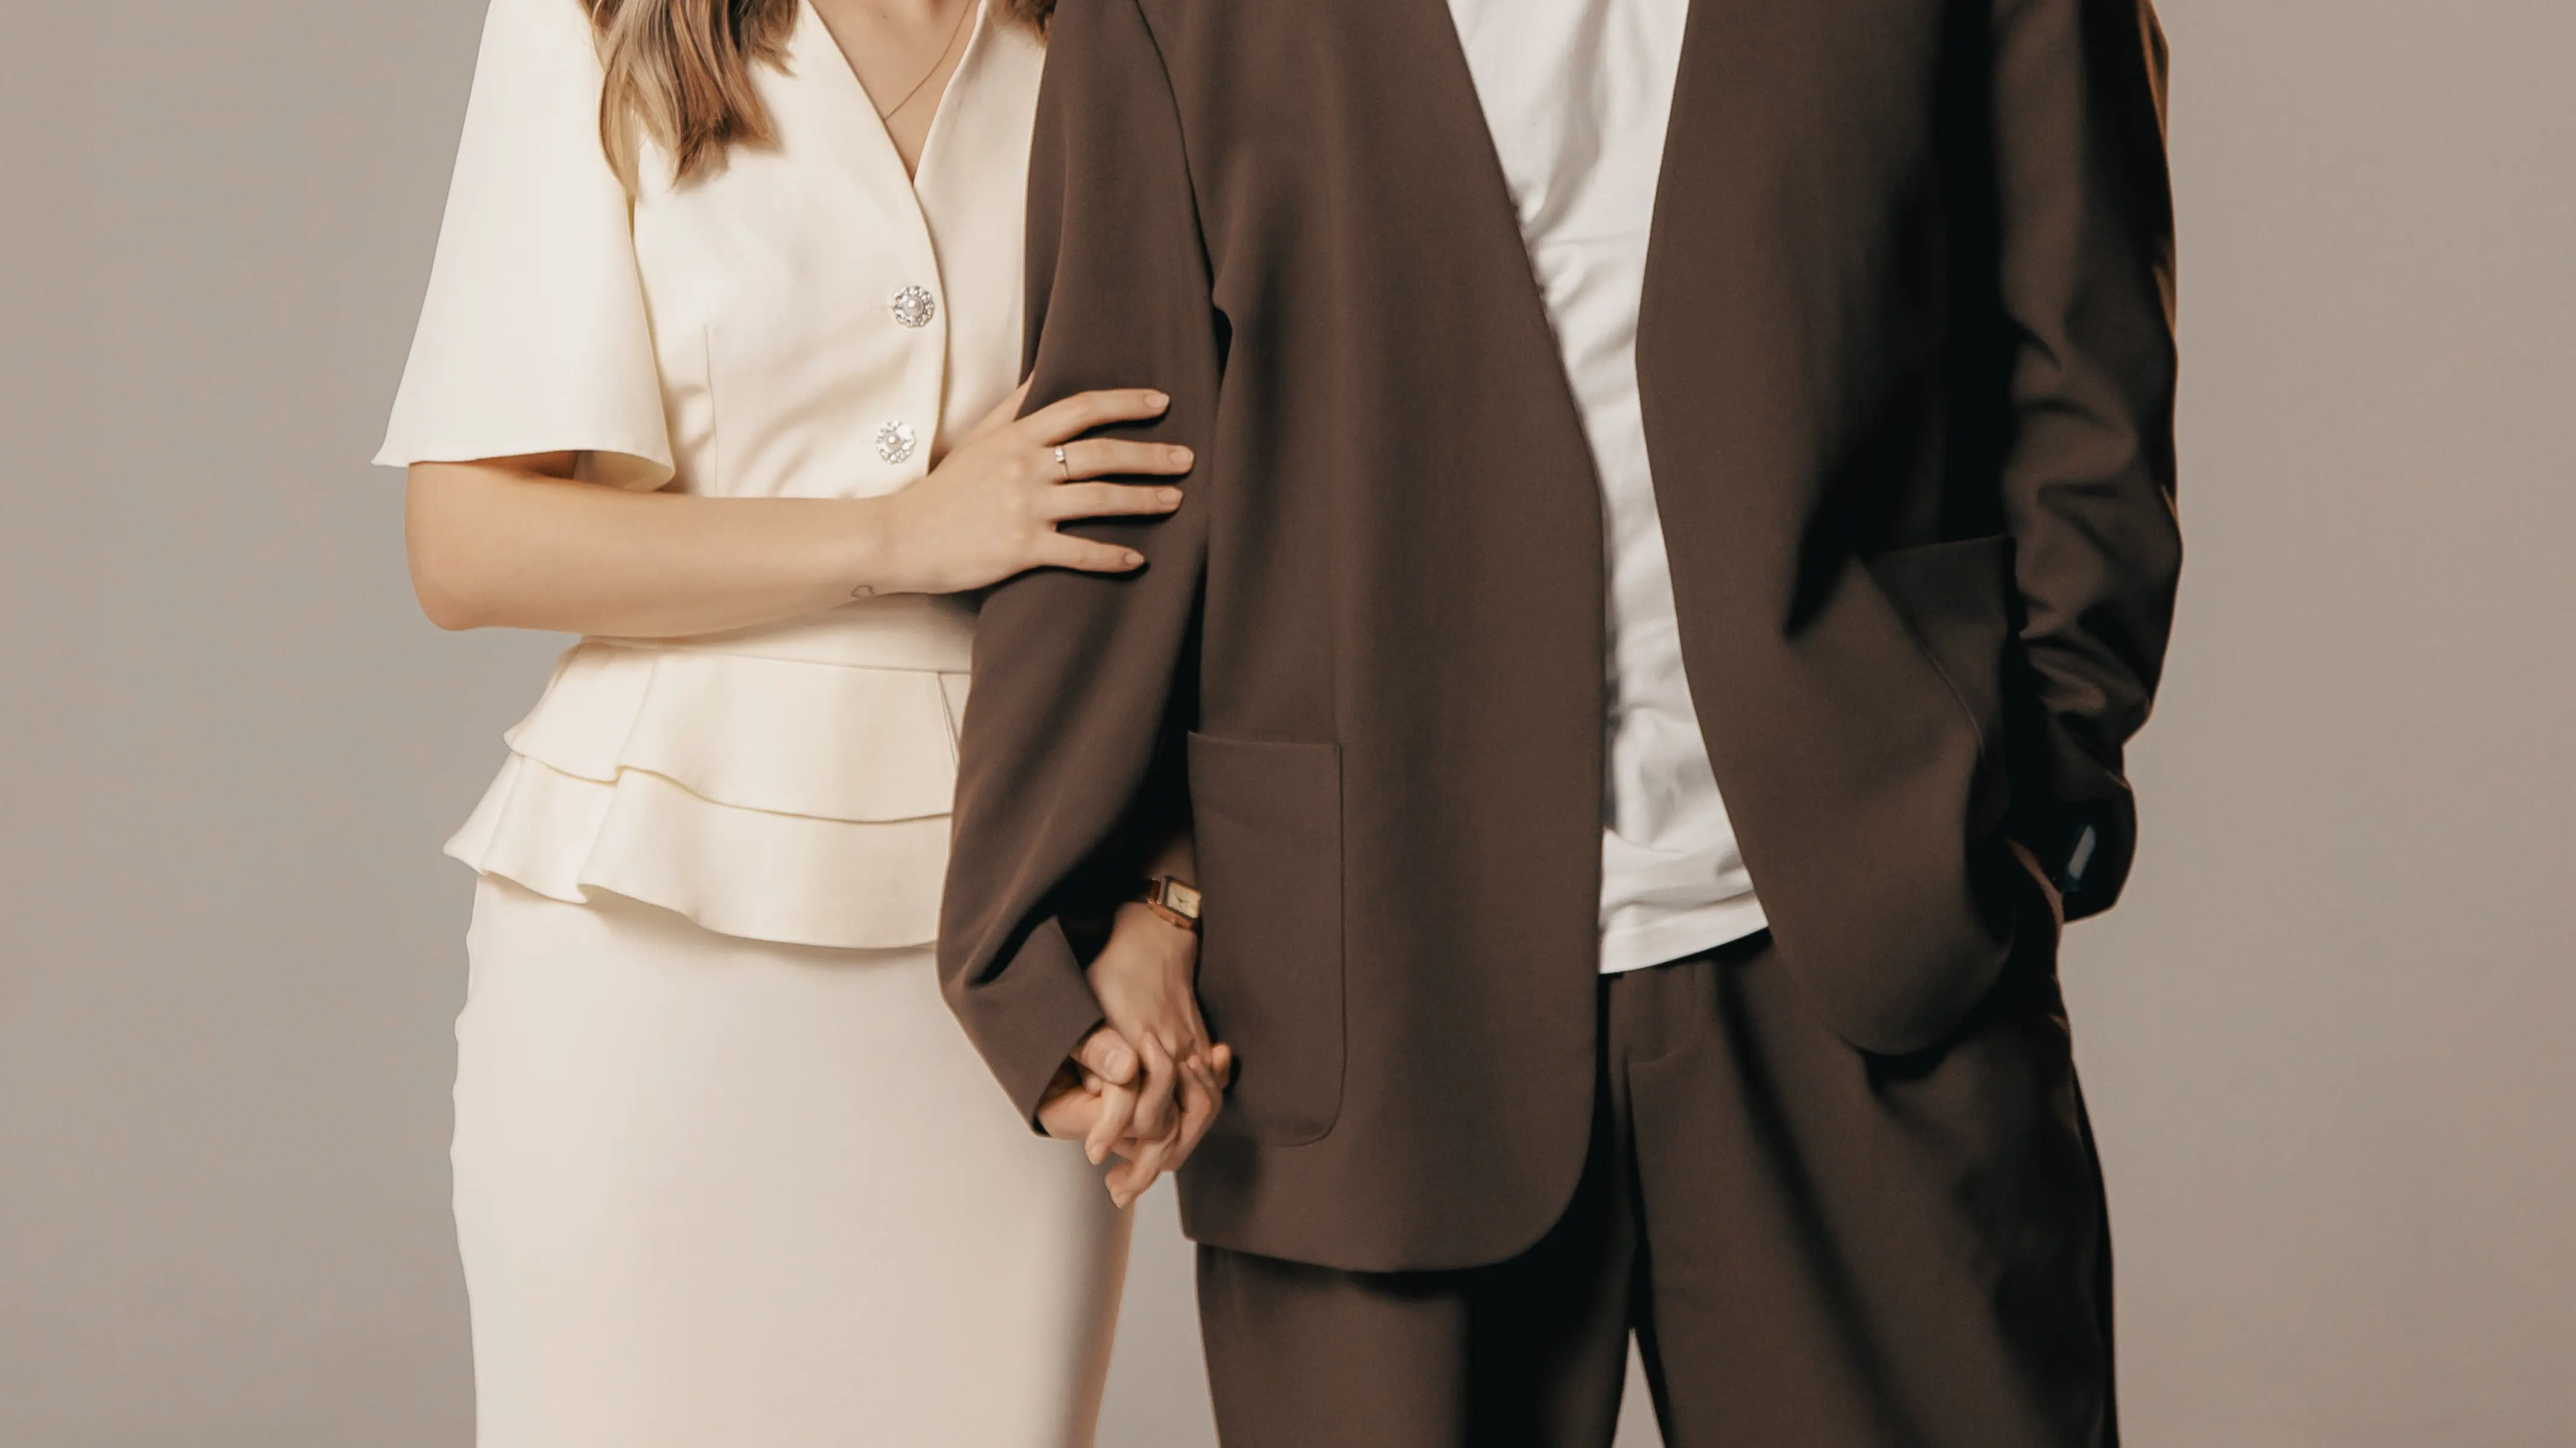
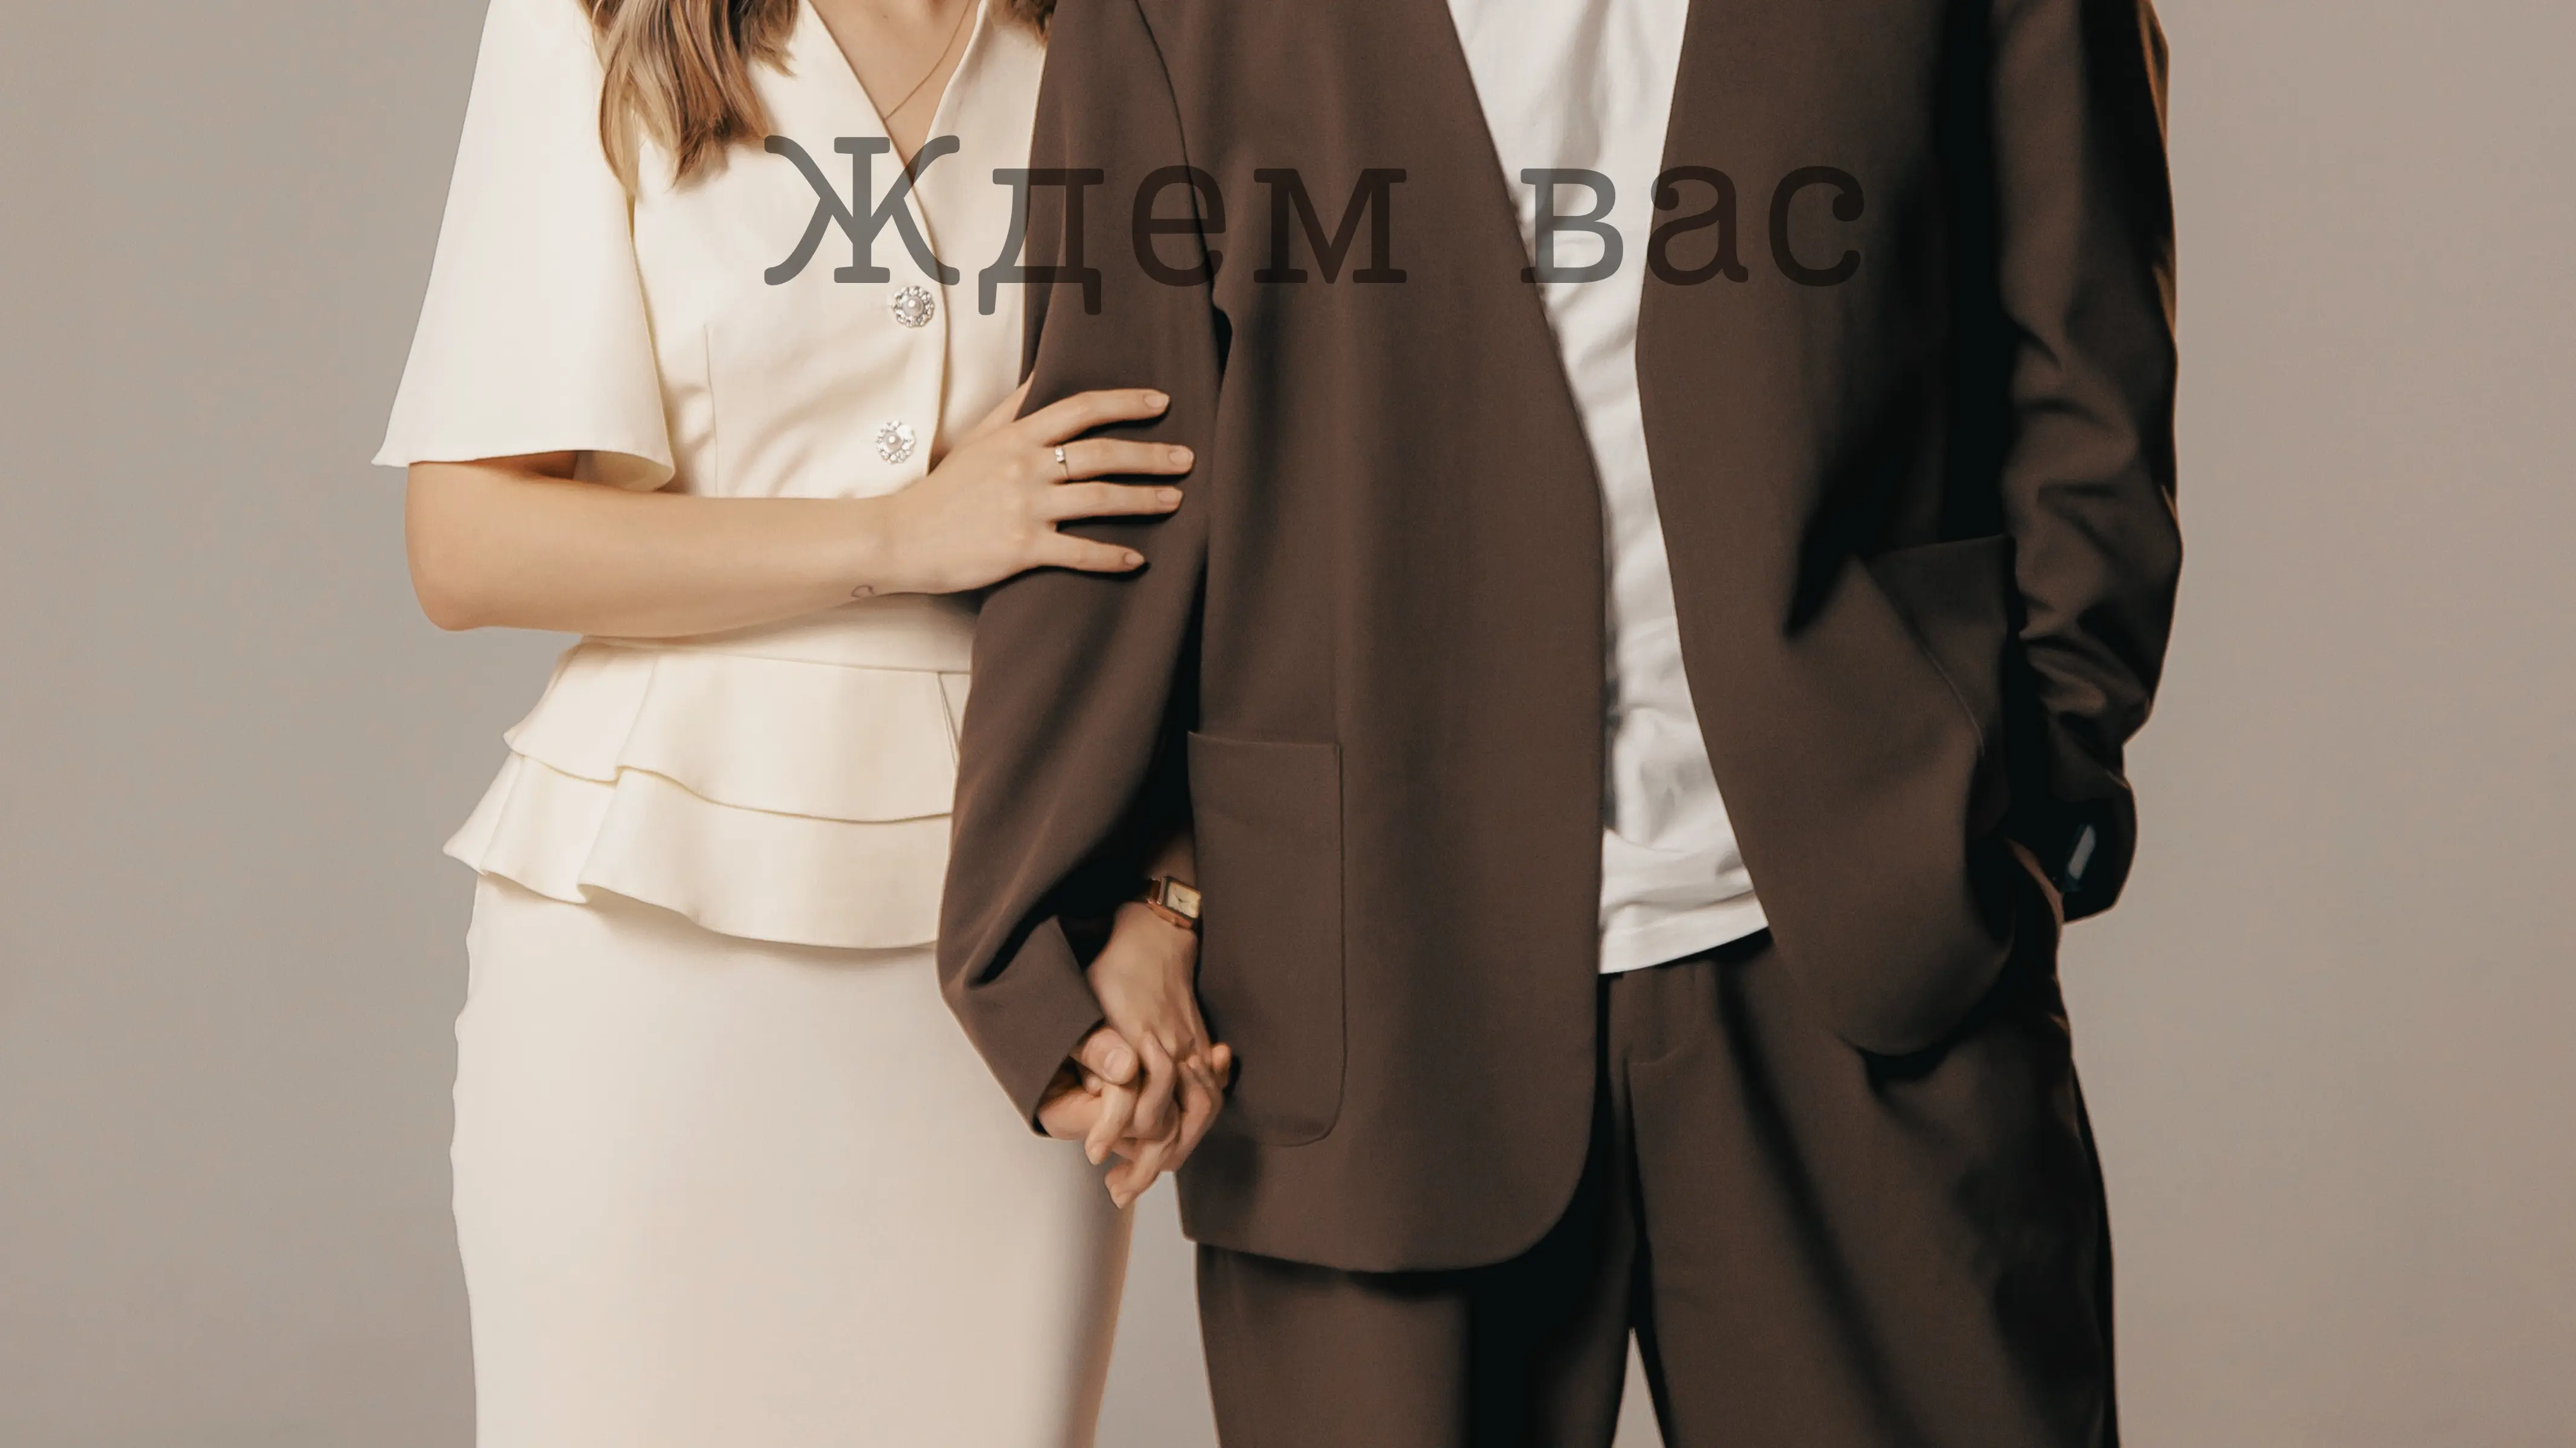
Add files via upload

Changed region(s): [[0.2804, 0.0938, 0.5608, 0.2188], [0.5919, 0.0938, 0.7166, 0.2188]]

diff --git a/index.html b/index.html
@@ -8,7 +8,7 @@
 
   <link rel="preconnect" href="https://fonts.googleapis.com">
   <link rel="preconnect" href="https://fonts.gstatic.com" crossorigin>
-  <link href="https://fonts.googleapis.com/css2?family=Cormorant+Garamond:wght@300;400;500;600;700&family=Courier+Prime:wght@400;700&family=Great+Vibes&display=swap" rel="stylesheet">
+  <link href="https://fonts.googleapis.com/css2?family=Cormorant+Garamond:wght@400;500;600;700&family=Great+Vibes&display=swap" rel="stylesheet">
 
   <style>
     :root {
@@ -28,12 +28,14 @@
       margin: 0;
       background: var(--beige);
       color: var(--deep);
-      font-family: "Courier Prime", "Courier New", monospace;
+      font-family: "Cormorant Garamond", Georgia, serif;
       overflow-x: hidden;
     }
 
     img { max-width: 100%; display: block; }
     a { color: inherit; }
+
+    body, button, input, textarea { font-family: "Cormorant Garamond", Georgia, serif; }
 
     .page {
       width: 100%;
@@ -99,12 +101,11 @@
 
     .hero-subtitle {
       margin: 0 0 28px;
-      font-family: "Cormorant Garamond", serif;
       font-size: clamp(23px, 4vw, 42px);
       line-height: 1;
-      letter-spacing: .12em;
+      letter-spacing: .08em;
       text-transform: uppercase;
-      font-weight: 400;
+      font-weight: 500;
     }
 
     .button {
@@ -118,8 +119,8 @@
       border-radius: 999px;
       text-decoration: none;
       text-transform: uppercase;
-      letter-spacing: .12em;
-      font-size: 13px;
+      letter-spacing: .08em;
+      font-size: 17px;
       line-height: 1.1;
       transition: transform .2s ease, background .2s ease, color .2s ease, opacity .2s ease;
       -webkit-tap-highlight-color: transparent;
@@ -142,8 +143,8 @@
       justify-content: space-between;
       align-items: flex-end;
       gap: 20px;
-      font-size: clamp(11px, 1.6vw, 14px);
-      letter-spacing: .08em;
+      font-size: clamp(14px, 1.7vw, 17px);
+      letter-spacing: .05em;
       text-transform: uppercase;
       opacity: .9;
     }
@@ -168,7 +169,6 @@
 
     .section-title {
       margin: 0 0 48px;
-      font-family: "Cormorant Garamond", serif;
       font-size: clamp(34px, 5vw, 56px);
       line-height: .95;
       font-weight: 600;
@@ -183,7 +183,7 @@
       align-items: center;
       min-height: 62px;
       border-bottom: 1px solid var(--line);
-      font-size: 16px;
+      font-size: 18px;
     }
 
     .timeline-row:first-child { border-top: 1px solid var(--line); }
@@ -191,13 +191,12 @@
 
     .venue-card {
       padding-top: 68px;
-      font-size: 17px;
+      font-size: 19px;
       line-height: 1.7;
     }
 
     .venue-card h3 {
       margin: 0 0 10px;
-      font-family: "Cormorant Garamond", serif;
       font-size: clamp(28px, 3.2vw, 40px);
       line-height: 1.08;
       font-weight: 600;
@@ -215,7 +214,7 @@
       margin-top: 56px;
       display: grid;
       gap: 16px;
-      font-size: 15px;
+      font-size: 17px;
       line-height: 1.65;
     }
 
@@ -298,7 +297,6 @@
 
     .gift-text h2 {
       margin: 0 0 38px;
-      font-family: "Cormorant Garamond", serif;
       font-size: clamp(32px, 4.4vw, 54px);
       line-height: 1.04;
       font-weight: 600;
@@ -308,52 +306,15 @@
     .gift-text p {
       max-width: 640px;
       margin: 0 0 16px;
-      font-size: clamp(15px, 1.5vw, 18px);
+      font-size: clamp(17px, 1.5vw, 20px);
       line-height: 1.7;
     }
 
     .small-note {
       margin-top: 70px !important;
-      font-size: 14px !important;
+      font-size: 16px !important;
       line-height: 1.65 !important;
       opacity: .86;
-    }
-
-    .details {
-      padding: clamp(70px, 9vw, 110px) 0;
-      background: var(--beige-light);
-    }
-
-    .details-grid {
-      display: grid;
-      grid-template-columns: repeat(3, 1fr);
-      gap: 16px;
-    }
-
-    .detail-card {
-      min-height: 190px;
-      display: flex;
-      flex-direction: column;
-      justify-content: space-between;
-      padding: 28px;
-      border: 1px solid rgba(40,37,29,.20);
-      background: rgba(215,207,189,.34);
-    }
-
-    .detail-card span {
-      font-size: 12px;
-      text-transform: uppercase;
-      letter-spacing: .16em;
-      opacity: .72;
-    }
-
-    .detail-card strong {
-      display: block;
-      margin-top: 22px;
-      font-family: "Cormorant Garamond", serif;
-      font-size: clamp(27px, 3vw, 38px);
-      line-height: 1.05;
-      font-weight: 600;
     }
 
     .countdown {
@@ -387,7 +348,6 @@
 
     .timer-box b {
       display: block;
-      font-family: "Cormorant Garamond", serif;
       font-size: clamp(34px, 5vw, 54px);
       line-height: 1;
       font-weight: 500;
@@ -410,7 +370,6 @@
 
     .map-rsvp h2 {
       margin: 0 0 16px;
-      font-family: "Cormorant Garamond", serif;
       font-size: clamp(38px, 6vw, 68px);
       line-height: 1;
       font-weight: 500;
@@ -419,7 +378,7 @@
     .map-rsvp p {
       margin: 0 auto 28px;
       max-width: 650px;
-      font-size: clamp(15px, 1.6vw, 18px);
+      font-size: clamp(17px, 1.6vw, 20px);
       line-height: 1.65;
     }
 
@@ -456,7 +415,6 @@
     .final h2 {
       margin: 0;
       text-align: center;
-      font-family: "Cormorant Garamond", serif;
       font-size: clamp(72px, 13vw, 160px);
       line-height: .9;
       font-weight: 700;
@@ -490,8 +448,7 @@
       }
 
       .program-grid,
-      .gift-grid,
-      .details-grid {
+      .gift-grid {
         grid-template-columns: 1fr;
       }
 
@@ -511,8 +468,6 @@
       .gift-text { text-align: left; }
       .flower-frame { max-width: 100%; }
       .small-note { margin-top: 44px !important; }
-      .details-grid { gap: 12px; }
-      .detail-card { min-height: 150px; }
       .actions { flex-direction: column; align-items: stretch; }
       .actions .button { width: 100%; }
       .final { min-height: 560px; }
@@ -607,23 +562,6 @@
           <p>Самый ценный подарок для нас — видеть вас рядом, ваши улыбки, объятия и тёплые слова.</p>
           <p>Спасибо, что будете частью нашего особенного дня 🤍</p>
           <p class="small-note">Если у вас есть пожелания к плейлисту, блюдам или есть аллергия, пожалуйста, напишите нам.</p>
-        </div>
-      </div>
-    </section>
-
-    <section class="details" aria-label="Детали свадьбы">
-      <div class="inner details-grid">
-        <div class="detail-card">
-          <span>Дата</span>
-          <strong>8 августа<br>2026</strong>
-        </div>
-        <div class="detail-card">
-          <span>Время</span>
-          <strong>16:30</strong>
-        </div>
-        <div class="detail-card">
-          <span>Место</span>
-          <strong>Банкетный зал<br>“Император”</strong>
         </div>
       </div>
     </section>